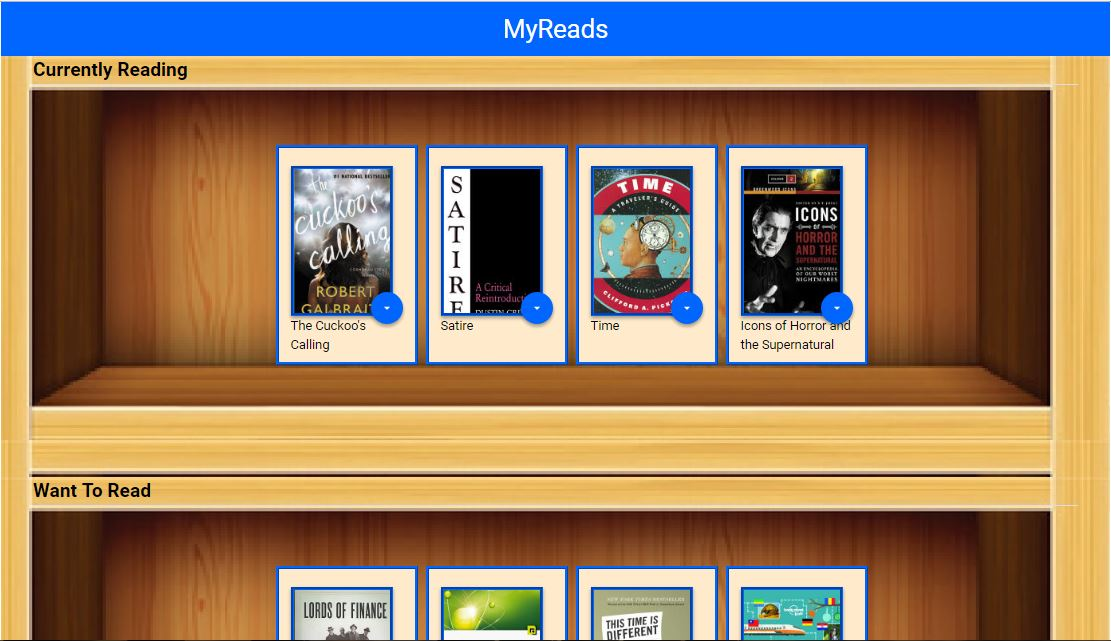
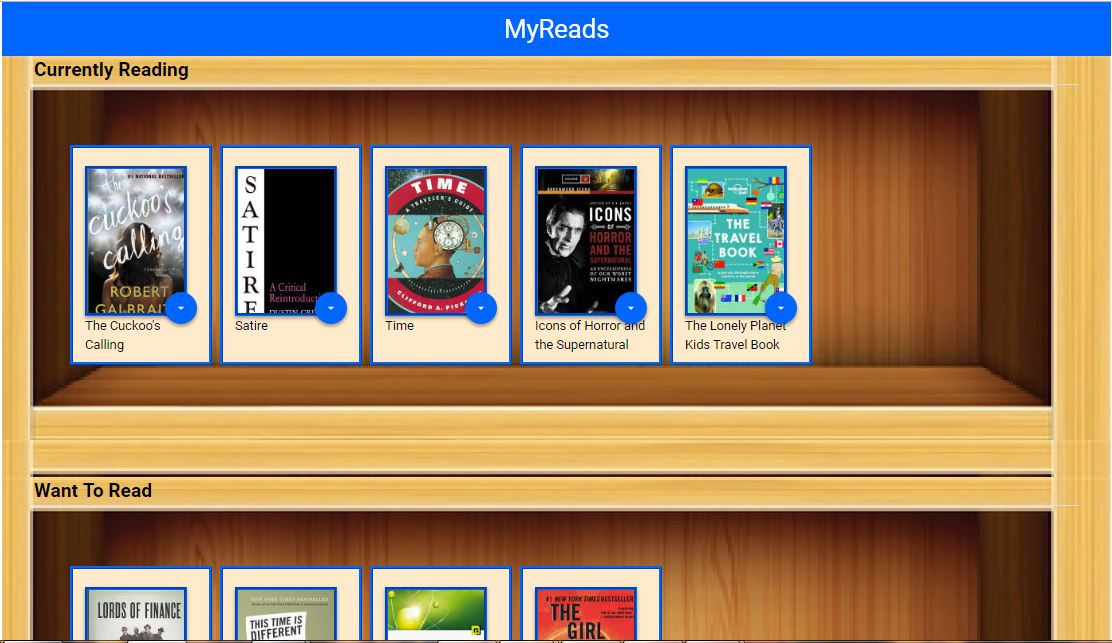
updated Readme.md and edited book alignment

diff --git a/src/App.css b/src/App.css
@@ -121,7 +121,7 @@ h2{
   margin: 0;
 
   display: flex;
-  justify-content: center;
+  justify-content: left;
   flex-wrap: wrap;
 }
 .books-grid li {

diff --git a/README.md b/README.md
@@ -92,7 +92,7 @@ npm version 3.10.10
 
 ## Tested Env
 
-Tested in Chrome version 57.0.2987.133
+Tested in Chrome version 57.0.2987.133 at zoom level : 80%
 
 ## History
 
